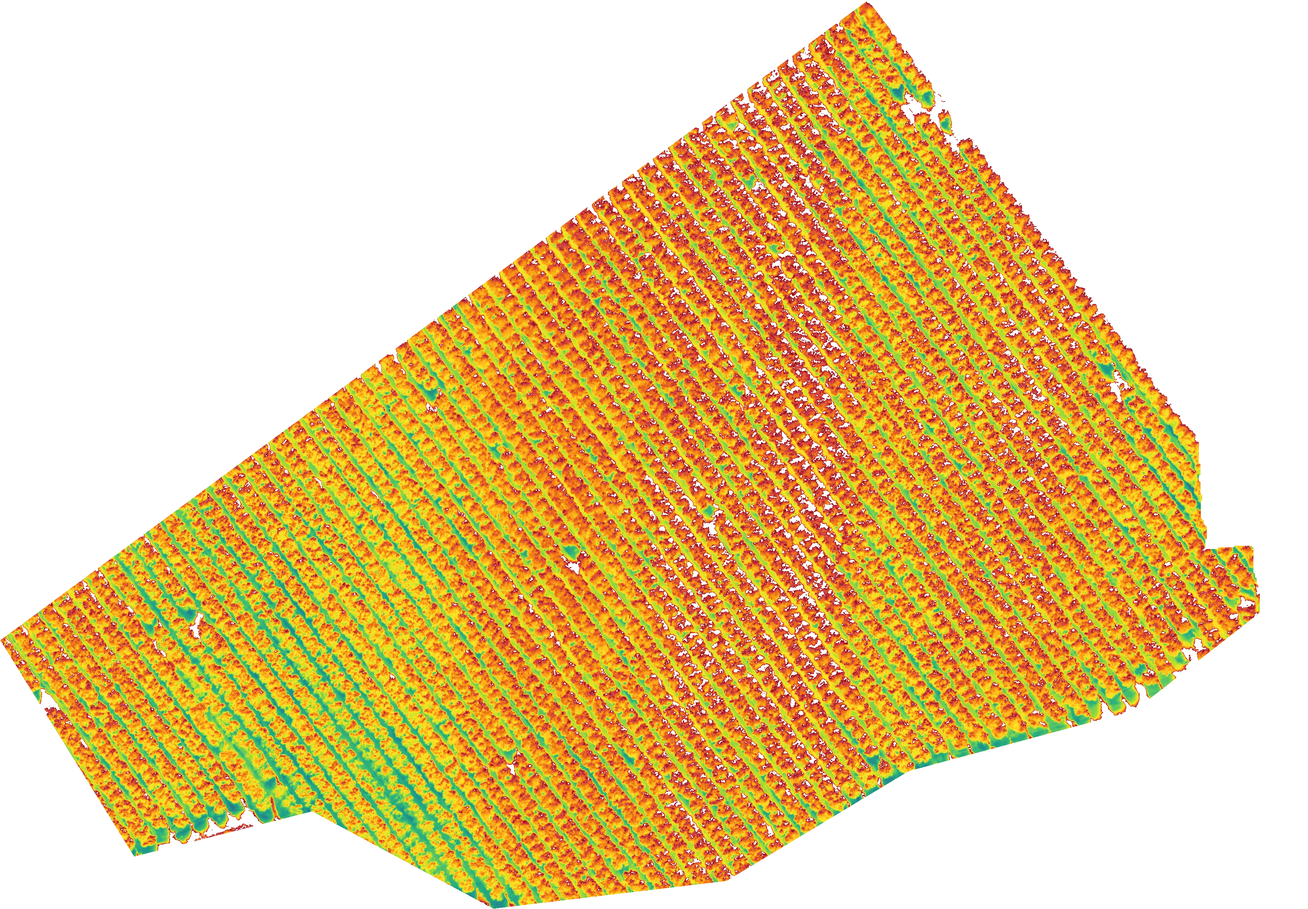
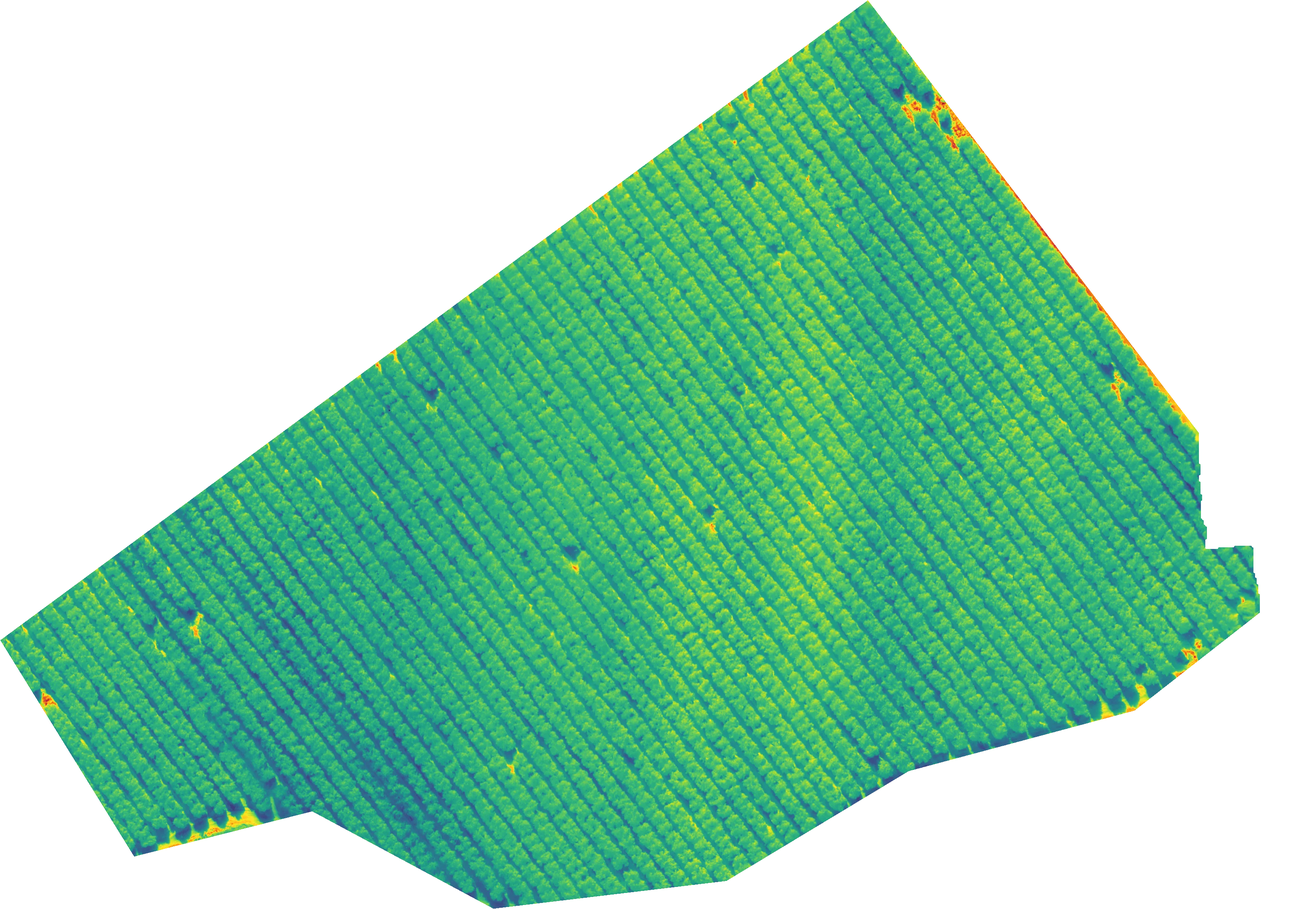
Ajusta leyenda térmica P95 solo en RIV sin ocultar píxeles.
Bruno Devoto (RIV) usa P0–P95 en escala y leyenda; RCI/RPA mantienen P0–P100; regenera WebP térmicos.

diff --git a/scripts/static_site/export_data_ortho.py b/scripts/static_site/export_data_ortho.py
@@ -57,7 +57,23 @@ REPO_ROOT = Path(__file__).resolve().parents[2]
 
 # Subir cuando cambien máscaras / recorte RGB en ``build_preview_rgb`` (invalida WebP cacheados con reuse).
 RGB_PREVIEW_MASK_REVISION = 11
-THERMAL_PREVIEW_REVISION = 3
+THERMAL_PREVIEW_REVISION = 4
+
+
+def _thermal_stretch_percentiles(index_cfg: dict, wetland_id: str | None) -> tuple[float, float]:
+    """P0–P95 sólo en predios con picos térmicos espurios (RIV); el resto usa P0–P100."""
+    default = tuple(index_cfg.get("stretch_percentiles") or [0, 100])
+    if len(default) != 2:
+        default = (0.0, 100.0)
+    riv_ids = {
+        str(w).strip().lower()
+        for w in (index_cfg.get("legend_p95_wetland_ids") or ["riv"])
+    }
+    if wetland_id and str(wetland_id).strip().lower() in riv_ids:
+        custom = tuple(index_cfg.get("stretch_percentiles_p95_legend") or [0, 95])
+        if len(custom) == 2:
+            return custom
+    return default
 
 SEASON_MID_DATES = {
     "verano": "-02-15",
@@ -589,13 +605,12 @@ def build_preview_thermal(
     visualization_cfg: dict,
     geom_wgs84: dict | None,
     index_cfg: dict,
+    wetland_id: str | None = None,
 ) -> dict | None:
-    """WebP térmico con colormap y rango P0–P95 dentro del AOI (picos >P95 se descartan)."""
+    """WebP térmico con colormap; la leyenda usa P0–P95 sólo en predios configurados (RIV)."""
     clip_to_aoi = visualization_cfg.get("clip_to_aoi", False) and geom_wgs84 is not None
     max_dim_cfg = visualization_cfg.get("index_preview_max_size") or visualization_cfg.get("rgb_max_size")
-    stretch_percentiles = tuple(index_cfg.get("stretch_percentiles") or [0, 95])
-    if len(stretch_percentiles) != 2:
-        stretch_percentiles = (0, 95)
+    stretch_percentiles = _thermal_stretch_percentiles(index_cfg, wetland_id)
     cmap_name = str(index_cfg.get("colormap", "Turbo"))
 
     leaflet_bbox = None
@@ -670,8 +685,6 @@ def build_preview_thermal(
         vmax = float(np.nanmax(valid))
     if vmax <= vmin:
         vmax = vmin + 1.0
-
-    nodata_mask |= np.isfinite(data) & (data > vmax)
 
     rgba = apply_colormap(data, nodata_mask, vmin, vmax, cmap_name)
 
@@ -1216,7 +1229,7 @@ def ingest_flat_drone_date_assets(
             if preview_meta is None:
                 if index_key == "thermal":
                     preview_meta = build_preview_thermal(
-                        tiff_path, preview_path, viz_flat, preview_geom_flat, index_cfg
+                        tiff_path, preview_path, viz_flat, preview_geom_flat, index_cfg, code_wid
                     )
                 else:
                     preview_meta = build_preview_rgb(tiff_path, preview_path, viz_flat, preview_geom_flat)
@@ -1531,7 +1544,7 @@ def export_source(
                         if preview_meta is None:
                             if index_key == "thermal":
                                 preview_meta = build_preview_thermal(
-                                    tiff_path, preview_path, visualization_cfg, preview_geom_union, index_cfg
+                                    tiff_path, preview_path, visualization_cfg, preview_geom_union, index_cfg, wetland_id
                                 )
                             else:
                                 preview_meta = build_preview_rgb(
